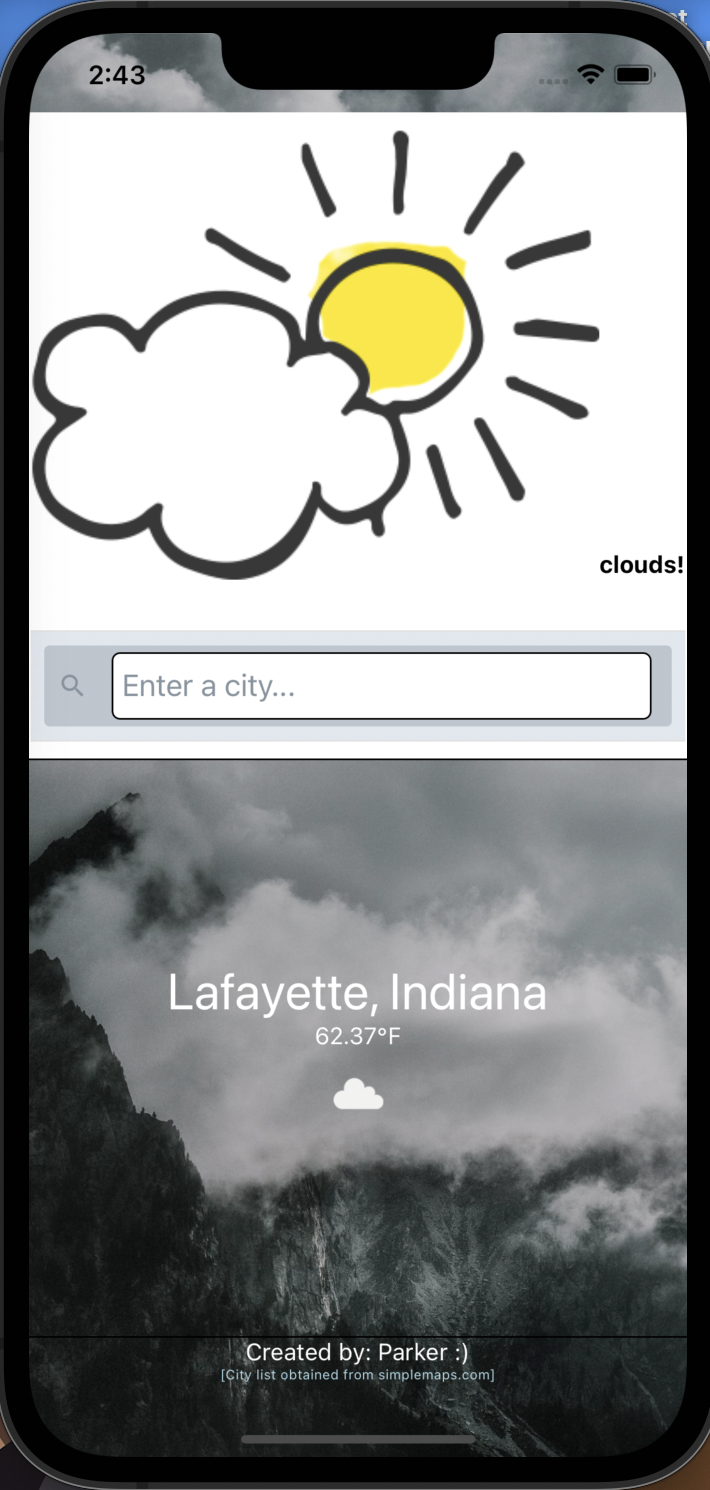
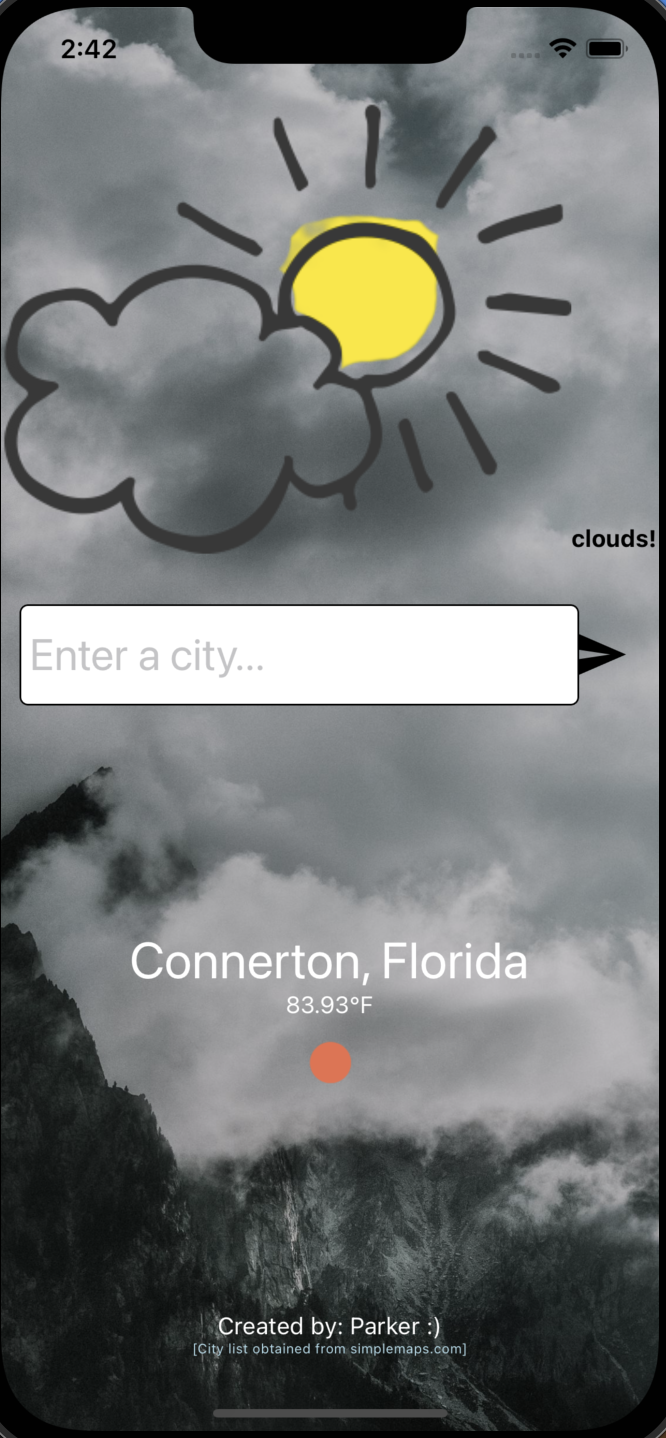
able to move info btw screens + reformat intro

diff --git a/screens/IntroScreen.js b/screens/IntroScreen.js
@@ -6,7 +6,9 @@ import { View,
          Linking, 
          ActivityIndicator,
          ImageBackground,
-         TouchableOpacity} from 'react-native'
+         TouchableOpacity,
+         TextInput} from 'react-native'
+import { AppLoading } from 'expo'
 import Ionicons from 'react-native-vector-icons/Ionicons'
 import React, {useState, useEffect} from 'react'
 import {SearchBar} from 'react-native-elements'
@@ -86,23 +88,21 @@ export default function IntroScreen({navigation}) {
                     <Text style={{fontWeight:'bold', }}>clouds!</Text>
                 </View>
                 <View style={{paddingVertical:15}}></View>
-                <SearchBar
+                <View style={{flexDirection: 'row', paddingHorizontal: 10,}}>
+                    <TextInput 
                         style={styles.searchBar}
-                        placeholder="Enter a city..."
+                        placeholder='Enter a city...'
                         value={search}
                         onChangeText={updateSearch}
-                        lightTheme
-                    />
-                <View style={{flexDirection: 'row'}}>
-
-                    <TouchableOpacity 
-                        style={{justifyContent: 'center', alignItems: 'center', backgroundColor: 'lightgray', borderRadius: 5, paddingLeft: -5}}
-                        onPress={() => navigation.navigate("Weather", {
-                            city: search
-                        })}
-                    >
-                        <Ionicons name='md-send-sharp' size={30}/>
-                    </TouchableOpacity>
+                        />
+                        <TouchableOpacity 
+                            style={{justifyContent: 'center', alignItems: 'center', borderRadius: 5,}}
+                            onPress={() => navigation.navigate("Weather", {
+                                city: search
+                            })}
+                        >
+                            <Ionicons name='md-send-sharp' size={30}/>
+                        </TouchableOpacity>
                 </View>
             </View> 
             <View style={styles.midSection}>
@@ -148,7 +148,7 @@ const styles = StyleSheet.create({
     },  
     header: {
         padding: 10,
-        backgroundColor: '#fff',
+        // backgroundColor: '#fff',
     },
     icon: {
         height: 50,
@@ -159,19 +159,22 @@ const styles = StyleSheet.create({
     },
     midSection: {
         flex: 1,
-        // backgroundColor: '#fff',
+        // backgroundColor: 'rgba(0,0,0,0.2)',
         height: '50%',
         alignItems: 'center',
         justifyContent: 'center',
         borderColor: '#000',
-        // borderWidth: 1,
         padding: 40,
+        // opacity: .9,
     },
     searchBar: {
+        width: "90%",
+        height: 60,
         backgroundColor: '#fff',
         borderColor: '#000',
         borderWidth: 1,
         borderRadius: 5,
         padding: 5,
+        fontSize: 26,
     },
 })

diff --git a/screens/WeatherScreen.js b/screens/WeatherScreen.js
@@ -3,13 +3,15 @@ import React from 'react'
 
 export default function WeatherScreen({ navigation, route }) {
 
-    const { name } = route.name
+    const { city } = route.params
+
+    console.log({city})
 
     return (
-    <SafeAreaView styles={styles.container}>
+    <View styles={styles.container}>
         <Text>WeatherScreen</Text>
-        <Text>{JSON.stringify(name)}</Text>
-    </SafeAreaView>
+        <Text>{JSON.stringify(city)}</Text>
+    </View>
   )
 }
 

diff --git a/screens/Navigation.js b/screens/Navigation.js
@@ -9,7 +9,8 @@ import SettingsScreen from './SettingsScreen';
 const Stack = createNativeStackNavigator();
 export default function Navigation() {
     return (
-        <NavigationContainer>
+        <NavigationContainer
+        style={styles.container}>
             <Stack.Navigator
                 screenOptions={{
                     headerShown:false,

diff --git a/README.MD b/README.MD
@@ -3,8 +3,9 @@
 weather app that's better than whatever you already use for your phone
 
 to do:
-set up what the image will be based on the type of weather we're seeing in the
-api response
+allow user to send request to the api for their city
+
+(now have ability to send info between screens)
 
 # current photo of app
 
